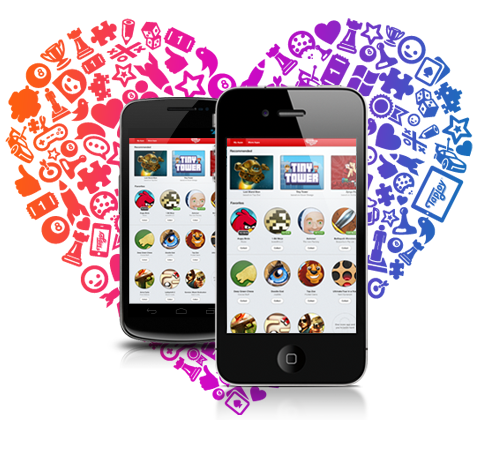
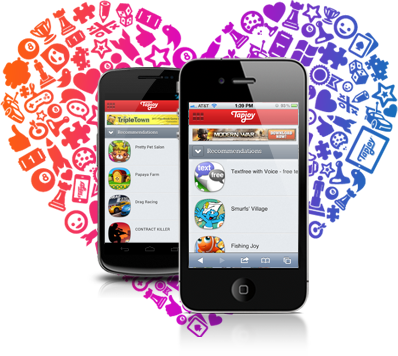
bug fixes

diff --git a/tapjoyads/public/stylesheets/sass/marketplace/theme/tjm/style.scss b/tapjoyads/public/stylesheets/sass/marketplace/theme/tjm/style.scss
@@ -73,7 +73,7 @@ input[type="submit"], input[type="button"] {
   top: 0;
   width: 100%;
   height: 100%;
-  @include animate(all, 0.3s, ease-in);
+  @include animate(all, 0.35s, ease-in);
   -webkit-perspective: 800;
   -webkit-backface-visibility: hidden;
 }
@@ -248,7 +248,7 @@ p {
       opacity: 0;
       width: 100%;
       z-index: 999;
-      @include animate(opacity, 0.35s);
+      @include animate(all, 0.35s, linear);
       @include rounded-corners-bottom(6px);
 
       .menu-dropdown-wrapper {
@@ -322,7 +322,7 @@ p {
         opacity: 1;
         top: -2px;
         overflow: hidden;
-        @include animate(all, 0.35s);
+        @include animate(all, 0.5s, linear);
 
         .device-select-wrapper {
           box-shadow: inset 0 -6px 20px 0 rgba(255, 255, 255, 0.2);
@@ -368,7 +368,7 @@ p {
             height: 85px;
             text-align: center;
             width: 33.333%;
-            @include animate(opacity, 0.35s);
+            @include animate(opacity, 0.5s, linear);
 
             span {
               position: relative;
@@ -1335,6 +1335,17 @@ div.ui-joy-button .get-app {
   }
 }
 
+.app-info {
+  position: absolute;
+  left: 136px;
+}
+
+.earn-btn {
+  position: absolute;
+  right: 8px;
+  top: 40px;
+}
+
 .greenblock {
   background: rgb(117,185,80);
[1 lines of base64/hex data omitted]
@@ -1356,10 +1367,6 @@ div.ui-joy-button .get-app {
   font-size: 1em;
   text-align: center;
   text-shadow: 0 1px 0 #437643;
-/*  position: absolute;
-  left: 25px;
-  bottom: -10px;
-  */
   box-shadow: inset 0px 1px 0 #96db73, inset 0px -1px 0px #4c8f28, 0 1px 4px rgba(0,0,0, .2);
 }
 
@@ -1377,7 +1384,6 @@ div.ui-joy-button .get-app {
 }
 
 #recommendations .app {
-/*  @include animate(opacity, .65s, linear, .65s);*/
   opacity: 0;
   height: 0;
   visibility: hidden;
@@ -1496,6 +1502,11 @@ div.app {
 
   .ui-list-action {
     display: none;
+  }
+  .myapps-earn {
+    position: absolute;
+    right: 8px;
+    top: 36px;
   }
 }
 
@@ -1689,7 +1700,7 @@ div.app {
 
 .list-button-container.earn-theme .big-title {
   color: #424242;
-  font-size: 1.6em;
+  font-size: 1.3em;
   max-width: 400px;
 }
 

diff --git a/tapjoyads/public/stylesheets/sass/marketplace/theme/tjm/style-480.scss b/tapjoyads/public/stylesheets/sass/marketplace/theme/tjm/style-480.scss
@@ -19,6 +19,10 @@
   }
 }
 
+.app-info {
+  position: absolute;
+  left: 112px;
+}
 
 .row-title {
   display: none;
@@ -96,6 +100,8 @@ div.app {
     margin-left: 10px;
     text-align: left;
     float: left;
+    position: absolute;
+    left: 100px;
 
     span.title {
       padding-left: 2px;

diff --git a/tapjoyads/public/stylesheets/sass/marketplace/theme/tjm/logged_out.scss b/tapjoyads/public/stylesheets/sass/marketplace/theme/tjm/logged_out.scss
@@ -1036,6 +1036,14 @@ span.gill {
   }
 }
 
+@media screen and (max-width: 480px) {
+  .phraseThatPays {
+    font-size: 15px;
+    text-align: center;
+    width: 220px;
+  }
+}
+
 @media screen and (max-width: 320px) {
 
   #login-web {

diff --git a/tapjoyads/public/stylesheets/sass/marketplace/theme/tjm/style-320.scss b/tapjoyads/public/stylesheets/sass/marketplace/theme/tjm/style-320.scss
@@ -96,4 +96,8 @@ div.app .title {
   }
 }
 
-
+.app-info {
+  position: absolute;
+  left: 106px;
+  font-size: 0.9em;
+}
